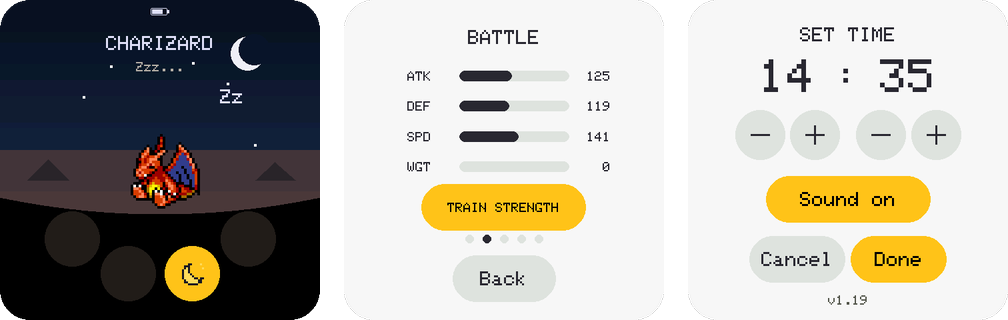
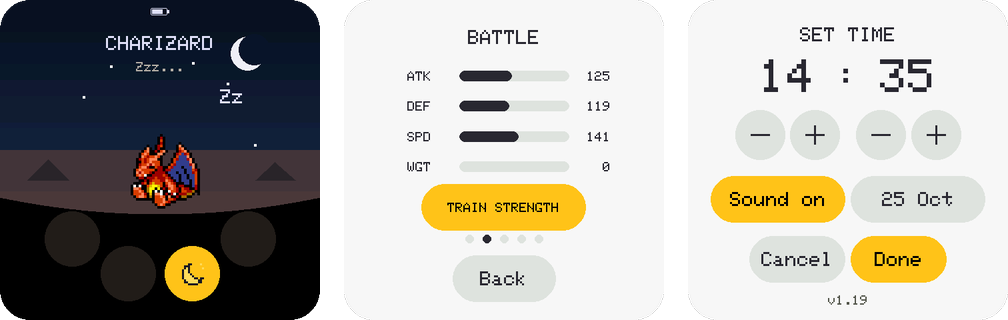
Set the date on the clock screen
The clock screen only set hh:mm, so a wrong RTC date stayed invisible and could
not be fixed on the device; the next boot's catch-up then counted the gap as time
switched off and aged the pet by up to two weeks at once (a Charmander jumped to
level 337 when the RTC read 1 December instead of 25 October).

A date pill next to Sound (day first, "25 Oct") switches the +/- buttons to day
and month, months carrying into the year; the date page's title is the full date.
The pills in that row grow to 196 px so their text stays at the big size. With the
date untouched Done keeps the nearest-hh:mm behaviour; with a date picked it sets
exactly that day. The date math (clockYmd, clockDay, clockAddMonths, clockSet) is
in clockset.h with host tests, and dates stay within the years rtcEpoch() accepts.

Changed region(s): [[0.7073, 0.5312, 0.9841, 0.7188]]

diff --git a/test/render/render_main.cpp b/test/render/render_main.cpp
@@ -94,7 +94,8 @@ static const Scene SCENES[] = {
   { "card_profile", [] { closeAll(); adult(6); cardOpen = true; cardPage = 0; }, false },
   { "card_stats", [] { closeAll(); adult(6); cardOpen = true; cardPage = 1; }, false },
   { "keyboard", [] { closeAll(); adult(6); kbOpen = true; strcpy(nameBuf, "ASH"); nameLen = 3; }, false },
-  { "clock", [] { closeAll(); adult(6); clockOpen = true; clockH = 14; clockM = 35; }, false },
+  { "clock", [] { closeAll(); adult(6); clockOpen = true; clockDateMode = false; clockH = 14; clockM = 35; clockDate = clockDay(2026, 10, 25); }, false },
+  { "clock_date", [] { closeAll(); adult(6); clockOpen = true; clockDateMode = true; clockH = 14; clockM = 35; clockDate = clockDay(2026, 10, 25); }, false },
   { "game", [] { closeAll(); adult(25); gameOpen = true; ballX = CX; ballY = 150; ballVX = ballVY = 0; gamePetX = CX; gameScore = 7; gameMisses = 1; }, false },
   { "sack", [] { closeAll(); adult(25); sackOpen = true; sackUntil = millis() + 8000; sackHits = 14; }, false },
   { "farewell", [] { closeAll(); adult(6); pet.startFarewell(); }, false },
@@ -449,6 +450,17 @@ static int runTapTests() {
   tapAt(SND_PILL_X + SND_PILL_W / 2, SND_PILL_Y + SND_PILL_H / 2);
   EXPECT(audioEnabled() != snd, "interruptor de sonido");
   audioSetEnabled(snd);
+  tapAt(DATE_PILL_X + SND_PILL_W / 2, SND_PILL_Y + SND_PILL_H / 2);
+  EXPECT(clockDateMode, "la pastilla de fecha cambia los botones a dia y mes");
+  tapAt(CLK_X3 + CLOCK_BTN_W / 2, CLOCK_BTN_Y + CLOCK_BTN_H / 2);
+  EXPECT(clockDate == clockDay(2026, 11, 25), "mes +");
+  tapAt(CLK_X1 + CLOCK_BTN_W / 2, CLOCK_BTN_Y + CLOCK_BTN_H / 2);
+  EXPECT(clockDate == clockDay(2026, 11, 26), "dia +");
+  tapAt(CLK_X0 + CLOCK_BTN_W / 2, CLOCK_BTN_Y + CLOCK_BTN_H / 2);
+  tapAt(CLK_X2 + CLOCK_BTN_W / 2, CLOCK_BTN_Y + CLOCK_BTN_H / 2);
+  EXPECT(clockDate == clockDay(2026, 10, 25) && clockH == 14 && clockM == 35, "dia - y mes - vuelven, la hora no cambia");
+  tapAt(DATE_PILL_X + SND_PILL_W / 2, SND_PILL_Y + SND_PILL_H / 2);
+  EXPECT(!clockDateMode, "y la pastilla vuelve a la hora");
   tapAt(CLOCK_OK_X + CLOCK_OK_W / 2, CLOCK_OK_Y + CLOCK_OK_H / 2);
   EXPECT(!clockOpen, "OK cierra el reloj");
   // ball minigame: tapping the ball scores, outside does not, the header quits
@@ -773,6 +785,10 @@ static int runFitTests() {
   fitBox("MIN", T(S_MIN), TS(2), CLOCK_BTN_W * 2 + (CLK_X3 - CLK_X2 - CLOCK_BTN_W));
   fitBox("sonido activado", T(S_SND_ON), TS(2), SND_PILL_W - U(8));
   fitBox("sonido desactivado", T(S_SND_OFF), TS(2), SND_PILL_W - U(8));
+  fitBox("sonido desactivado (grande)", T(S_SND_OFF), TS(3), SND_PILL_W - U(32));  // uiPill's big size
+  fitBox("fecha del reloj", "28 Sep", TS(3), SND_PILL_W - U(32));
+  fitChord("fecha completa del reloj", "28 Sep 2026", TS(3), UY(44));
+  fitBox("mes del reloj", "MAY", TS(7), CLOCK_BTN_W * 2 + (CLK_X3 - CLK_X2 - CLOCK_BTN_W));
   // --- minigames ---
   snprintf(b, sizeof(b), T(S_SCORE_FMT), 999);
   fitBox("puntuacion", b, TS(4), UI_W - U(40));

diff --git a/clockset.h b/clockset.h
@@ -15,3 +15,46 @@ inline uint32_t clockEpoch(uint32_t now, int h, int m) {
   else if ((int64_t)now - e > 43200) e += 86400;
   return (uint32_t)e;
 }
+
+// Calendar date of a day number (days since 1970-01-01) and back, Hinnant's civil algorithms
+// (no mktime: its time zone differs between the board and the host tests).
+inline void clockYmd(int32_t day, int &y, int &m, int &d) {
+  int32_t z = day + 719468, era = (z >= 0 ? z : z - 146096) / 146097;
+  uint32_t doe = (uint32_t)(z - era * 146097);
+  uint32_t yoe = (doe - doe / 1460 + doe / 36524 - doe / 146096) / 365;
+  uint32_t doy = doe - (365 * yoe + yoe / 4 - yoe / 100), mp = (5 * doy + 2) / 153;
+  d = (int)(doy - (153 * mp + 2) / 5 + 1);
+  m = (int)(mp < 10 ? mp + 3 : mp - 9);
+  y = (int)yoe + era * 400 + (m <= 2);
+}
+
+inline int32_t clockDay(int y, int m, int d) {
+  y -= m <= 2;
+  int32_t era = (y >= 0 ? y : y - 399) / 400;
+  uint32_t yoe = (uint32_t)(y - era * 400), doy = (153 * (m > 2 ? m - 3 : m + 9) + 2) / 5 + d - 1;
+  return era * 146097 + (int32_t)(yoe * 365 + yoe / 4 - yoe / 100 + doy) - 719468;
+}
+
+// The same day n months later (or earlier), clamped to that month's length: 31 Jan + 1 = 28/29 Feb.
+inline int32_t clockAddMonths(int32_t day, int n) {
+  int y, m, d;
+  clockYmd(day, y, m, d);
+  int k = y * 12 + m - 1 + n;
+  y = k / 12;
+  m = k % 12 + 1;
+  int len = clockDay(m == 12 ? y + 1 : y, m == 12 ? 1 : m + 1, 1) - clockDay(y, m, 1);
+  return clockDay(y, m, d < len ? d : len);
+}
+
+// The dates the clock screen offers: the years rtcEpoch() accepts as a valid time.
+inline int32_t clockClampDay(int32_t day) {
+  int32_t lo = clockDay(2025, 1, 1), hi = clockDay(2120, 12, 31);
+  return day < lo ? lo : day > hi ? hi : day;
+}
+
+// Epoch for the date and hh:mm on the clock screen: with the date left on now's day, the nearest
+// hh:mm (clockEpoch); with another date picked, exactly that day.
+inline uint32_t clockSet(uint32_t now, int32_t day, int h, int m) {
+  if (day == (int32_t)(now / 86400)) return clockEpoch(now, h, m);
+  return (uint32_t)day * 86400 + h * 3600 + m * 60;
+}

diff --git a/test/test_clockset.cpp b/test/test_clockset.cpp
@@ -42,3 +42,33 @@ TEST(clockset, la_base_prefiere_el_rtc_luego_lo_guardado_y_luego_una_fecha_razon
   // so that any hh:mm set then is a real date, never day 0 (which means "no clock")
   CHECK(clockEpoch(clockBase(0, 0), 0, 0) / 86400 > 0);
 }
+
+TEST(clockset, fechas_de_ida_y_vuelta) {
+  int y, m, d;
+  clockYmd(0, y, m, d);
+  CHECK(y == 1970 && m == 1 && d == 1);
+  clockYmd(1792943027 / 86400, y, m, d);
+  CHECK(y == 2026 && m == 10 && d == 25);
+  CHECK_EQ((int)clockDay(2028, 2, 29), (int)clockDay(2028, 2, 28) + 1);  // leap day
+  CHECK_EQ((int)clockDay(2026, 3, 1), (int)clockDay(2026, 2, 28) + 1);   // no leap day
+  for (int32_t day = clockDay(2025, 1, 1); day <= clockDay(2121, 1, 1); day++) {
+    clockYmd(day, y, m, d);
+    if (clockDay(y, m, d) != day) { CHECK_EQ((int)clockDay(y, m, d), (int)day); break; }
+  }
+}
+
+TEST(clockset, los_meses_se_recortan_y_cruzan_el_ano) {
+  CHECK_EQ((int)clockAddMonths(clockDay(2026, 1, 31), 1), (int)clockDay(2026, 2, 28));
+  CHECK_EQ((int)clockAddMonths(clockDay(2028, 1, 31), 1), (int)clockDay(2028, 2, 29));
+  CHECK_EQ((int)clockAddMonths(clockDay(2026, 12, 15), 1), (int)clockDay(2027, 1, 15));
+  CHECK_EQ((int)clockAddMonths(clockDay(2026, 1, 15), -1), (int)clockDay(2025, 12, 15));
+  CHECK_EQ((int)clockClampDay(clockDay(2024, 12, 31)), (int)clockDay(2025, 1, 1));  // rtcEpoch() rejects < 2025
+  CHECK_EQ((int)clockClampDay(clockDay(2121, 1, 1)), (int)clockDay(2120, 12, 31));
+}
+
+TEST(clockset, una_fecha_elegida_se_respeta_y_sin_tocarla_sigue_la_hora_cercana) {
+  uint32_t now = at(20000, 0, 30);
+  CHECK_EQ((int)clockSet(now, 20000, 23, 30), (int)at(19999, 23, 30));  // date untouched: nearest
+  CHECK_EQ((int)clockSet(now, 20037, 23, 30), (int)at(20037, 23, 30));  // date picked: that day
+  CHECK_EQ((int)clockSet(now, 19963, 9, 0), (int)at(19963, 9, 0));       // also backwards
+}

diff --git a/README.md b/README.md
@@ -234,7 +234,8 @@ four need meters. See [Actions](#actions) for what each does.
 - Vertical swipe up = open the **stat card** (5 pages: Profile / Battle / Medals /
   Progress / Steps; swipe between them; tap the name on Profile to rename; on Battle the
   "Train strength" button opens the bag; **Back** or a swipe up closes it).
-- Swipe down = **set the clock** and toggle **sound** on/off.
+- Swipe down = **set the clock** and toggle **sound** on/off. The date pill (day first, e.g.
+  `25 Oct`) switches the buttons to day and month, so a wrong date can be fixed on the device.
 - Long press (3 s) on the creature = **release** dialog.
 - A tap at the top of the Pokédex, the minigame or the bag closes them.
 

diff --git a/CHANGELOG.md b/CHANGELOG.md
@@ -8,6 +8,13 @@ Updating from the [web installer](https://socquique.github.io/TamaPoke/web/)
 
 ## [Unreleased]
 
+### Added
+- The clock screen shows the date and can set it: the date pill next to Sound
+  switches the buttons to day and month (months carry into the year). The RTC
+  date was invisible before, so a wrong one could not be seen or fixed, and the
+  next boot's catch-up then aged the pet by up to two weeks at once. Setting the
+  clock never ages the pet.
+
 ### Changed
 - The clock screen title now reads SET TIME, in capitals like every other
   menu title.
